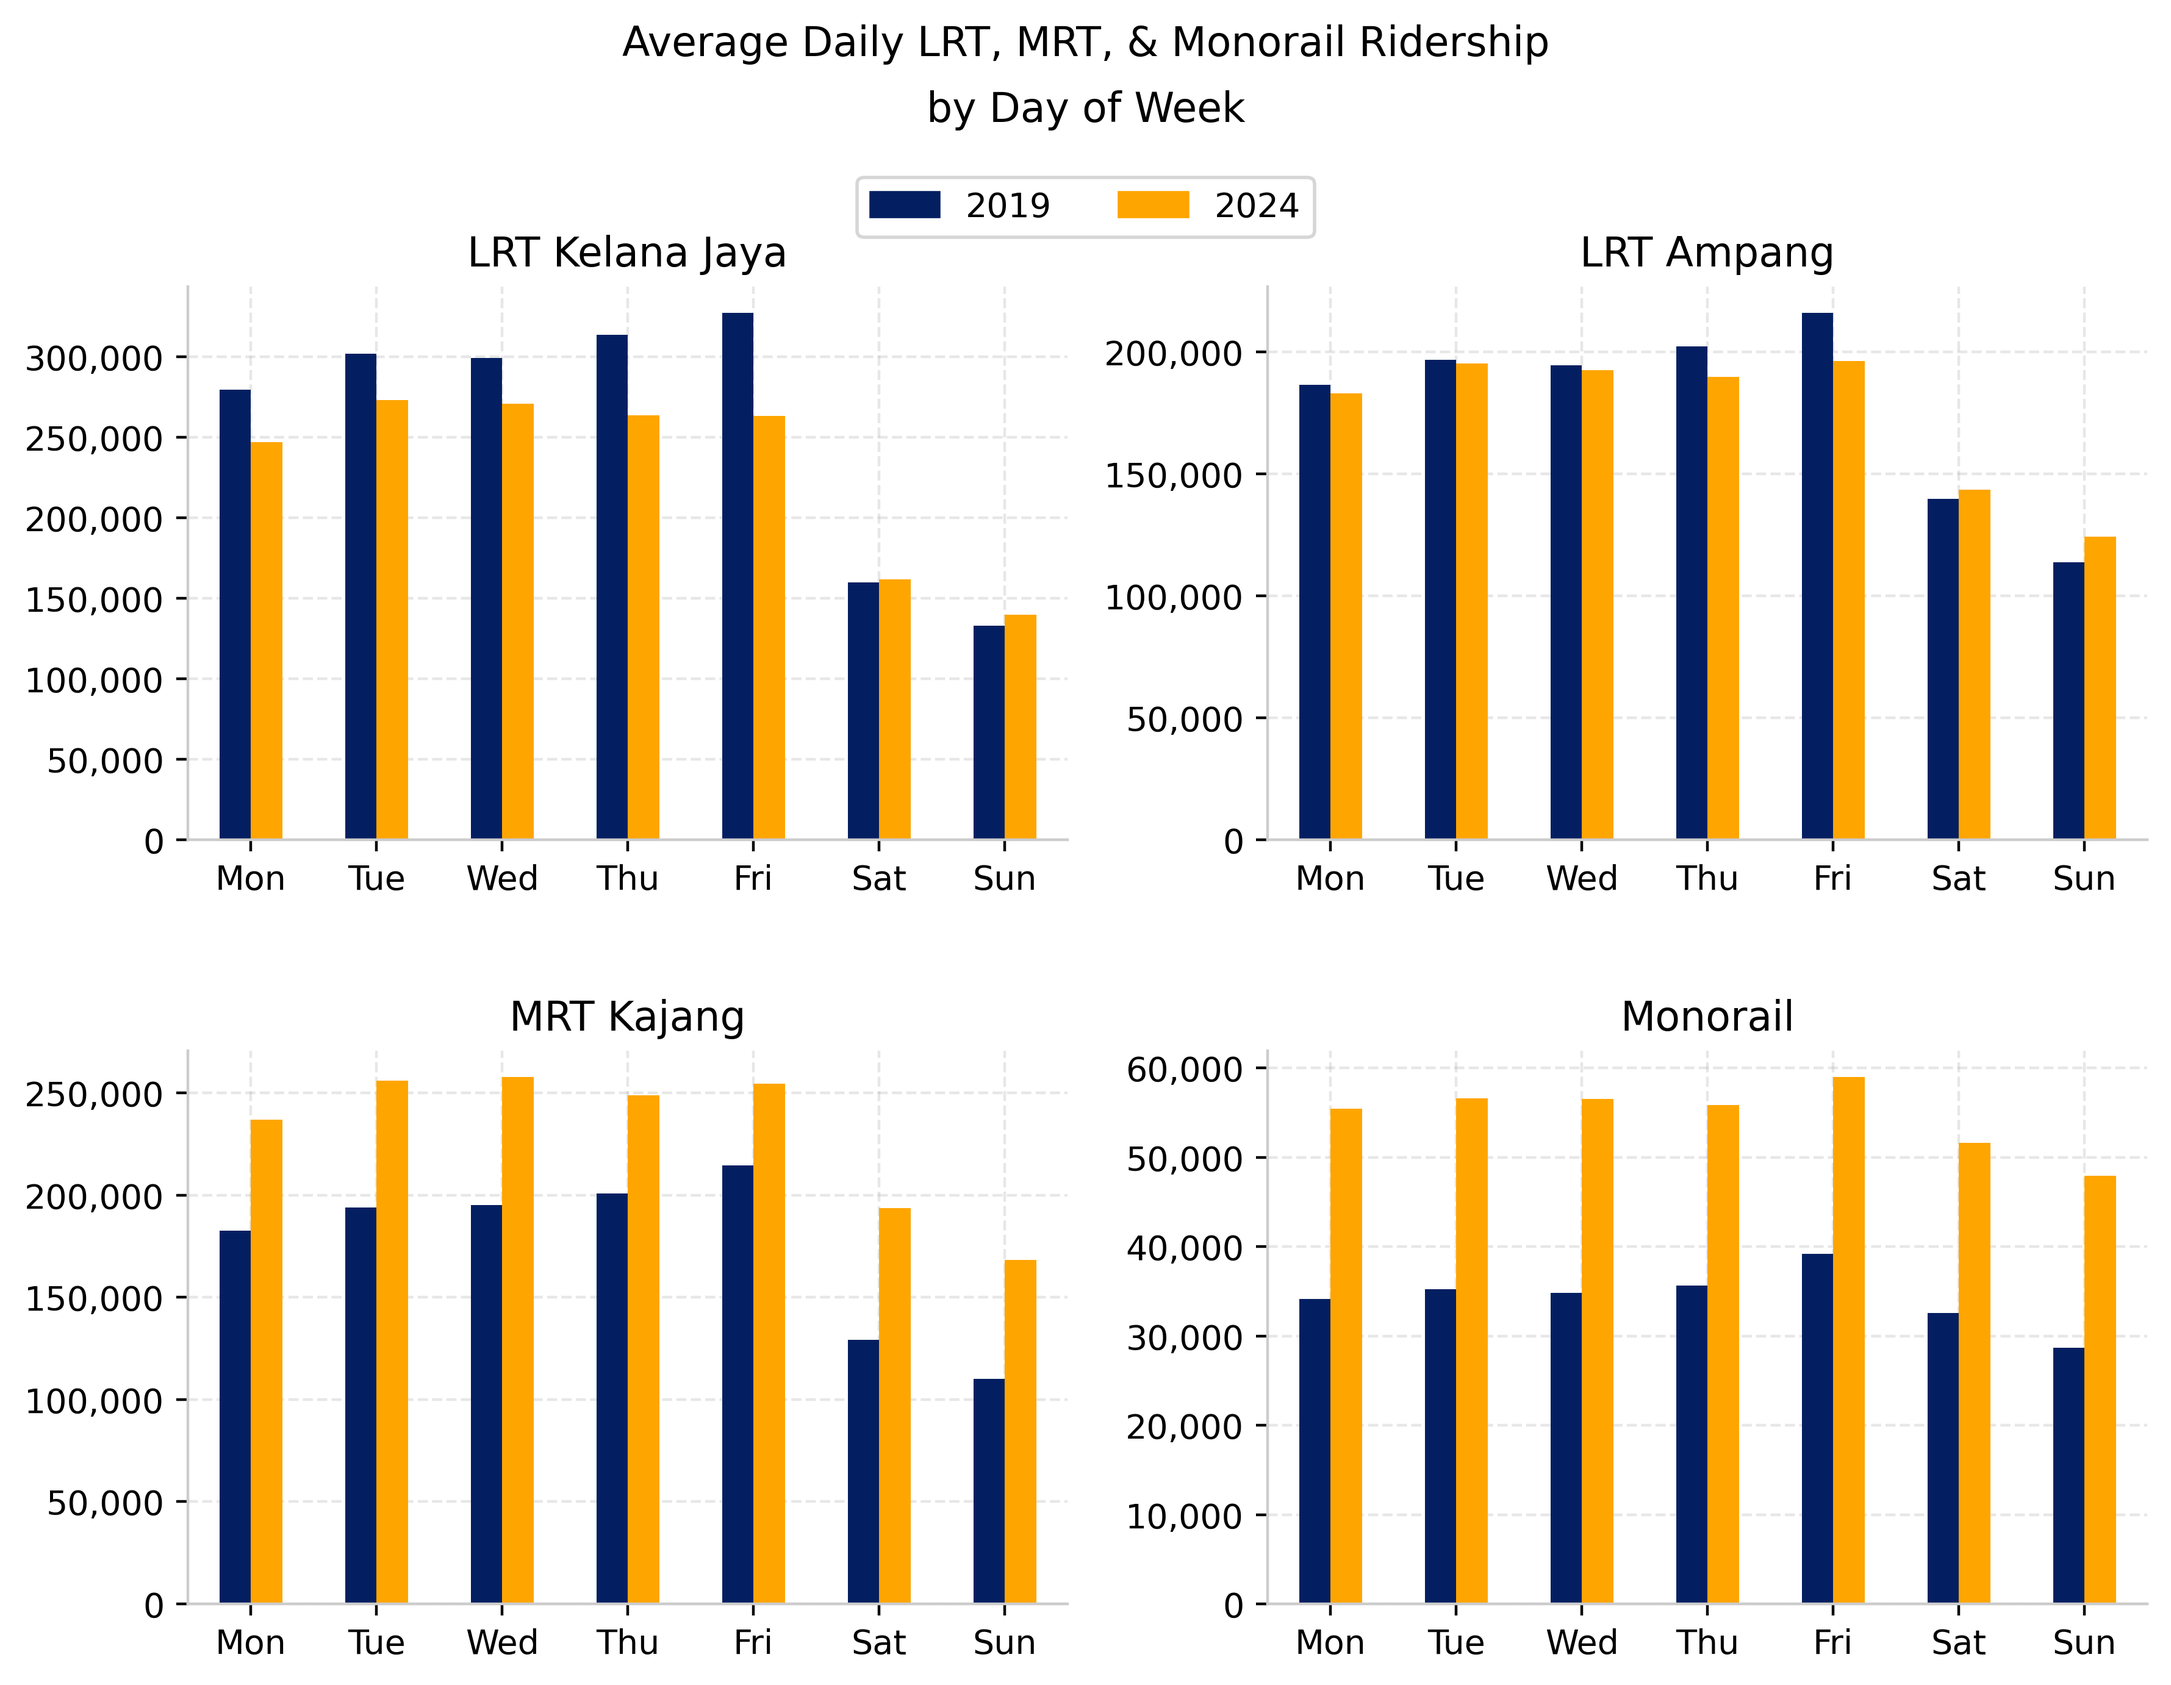
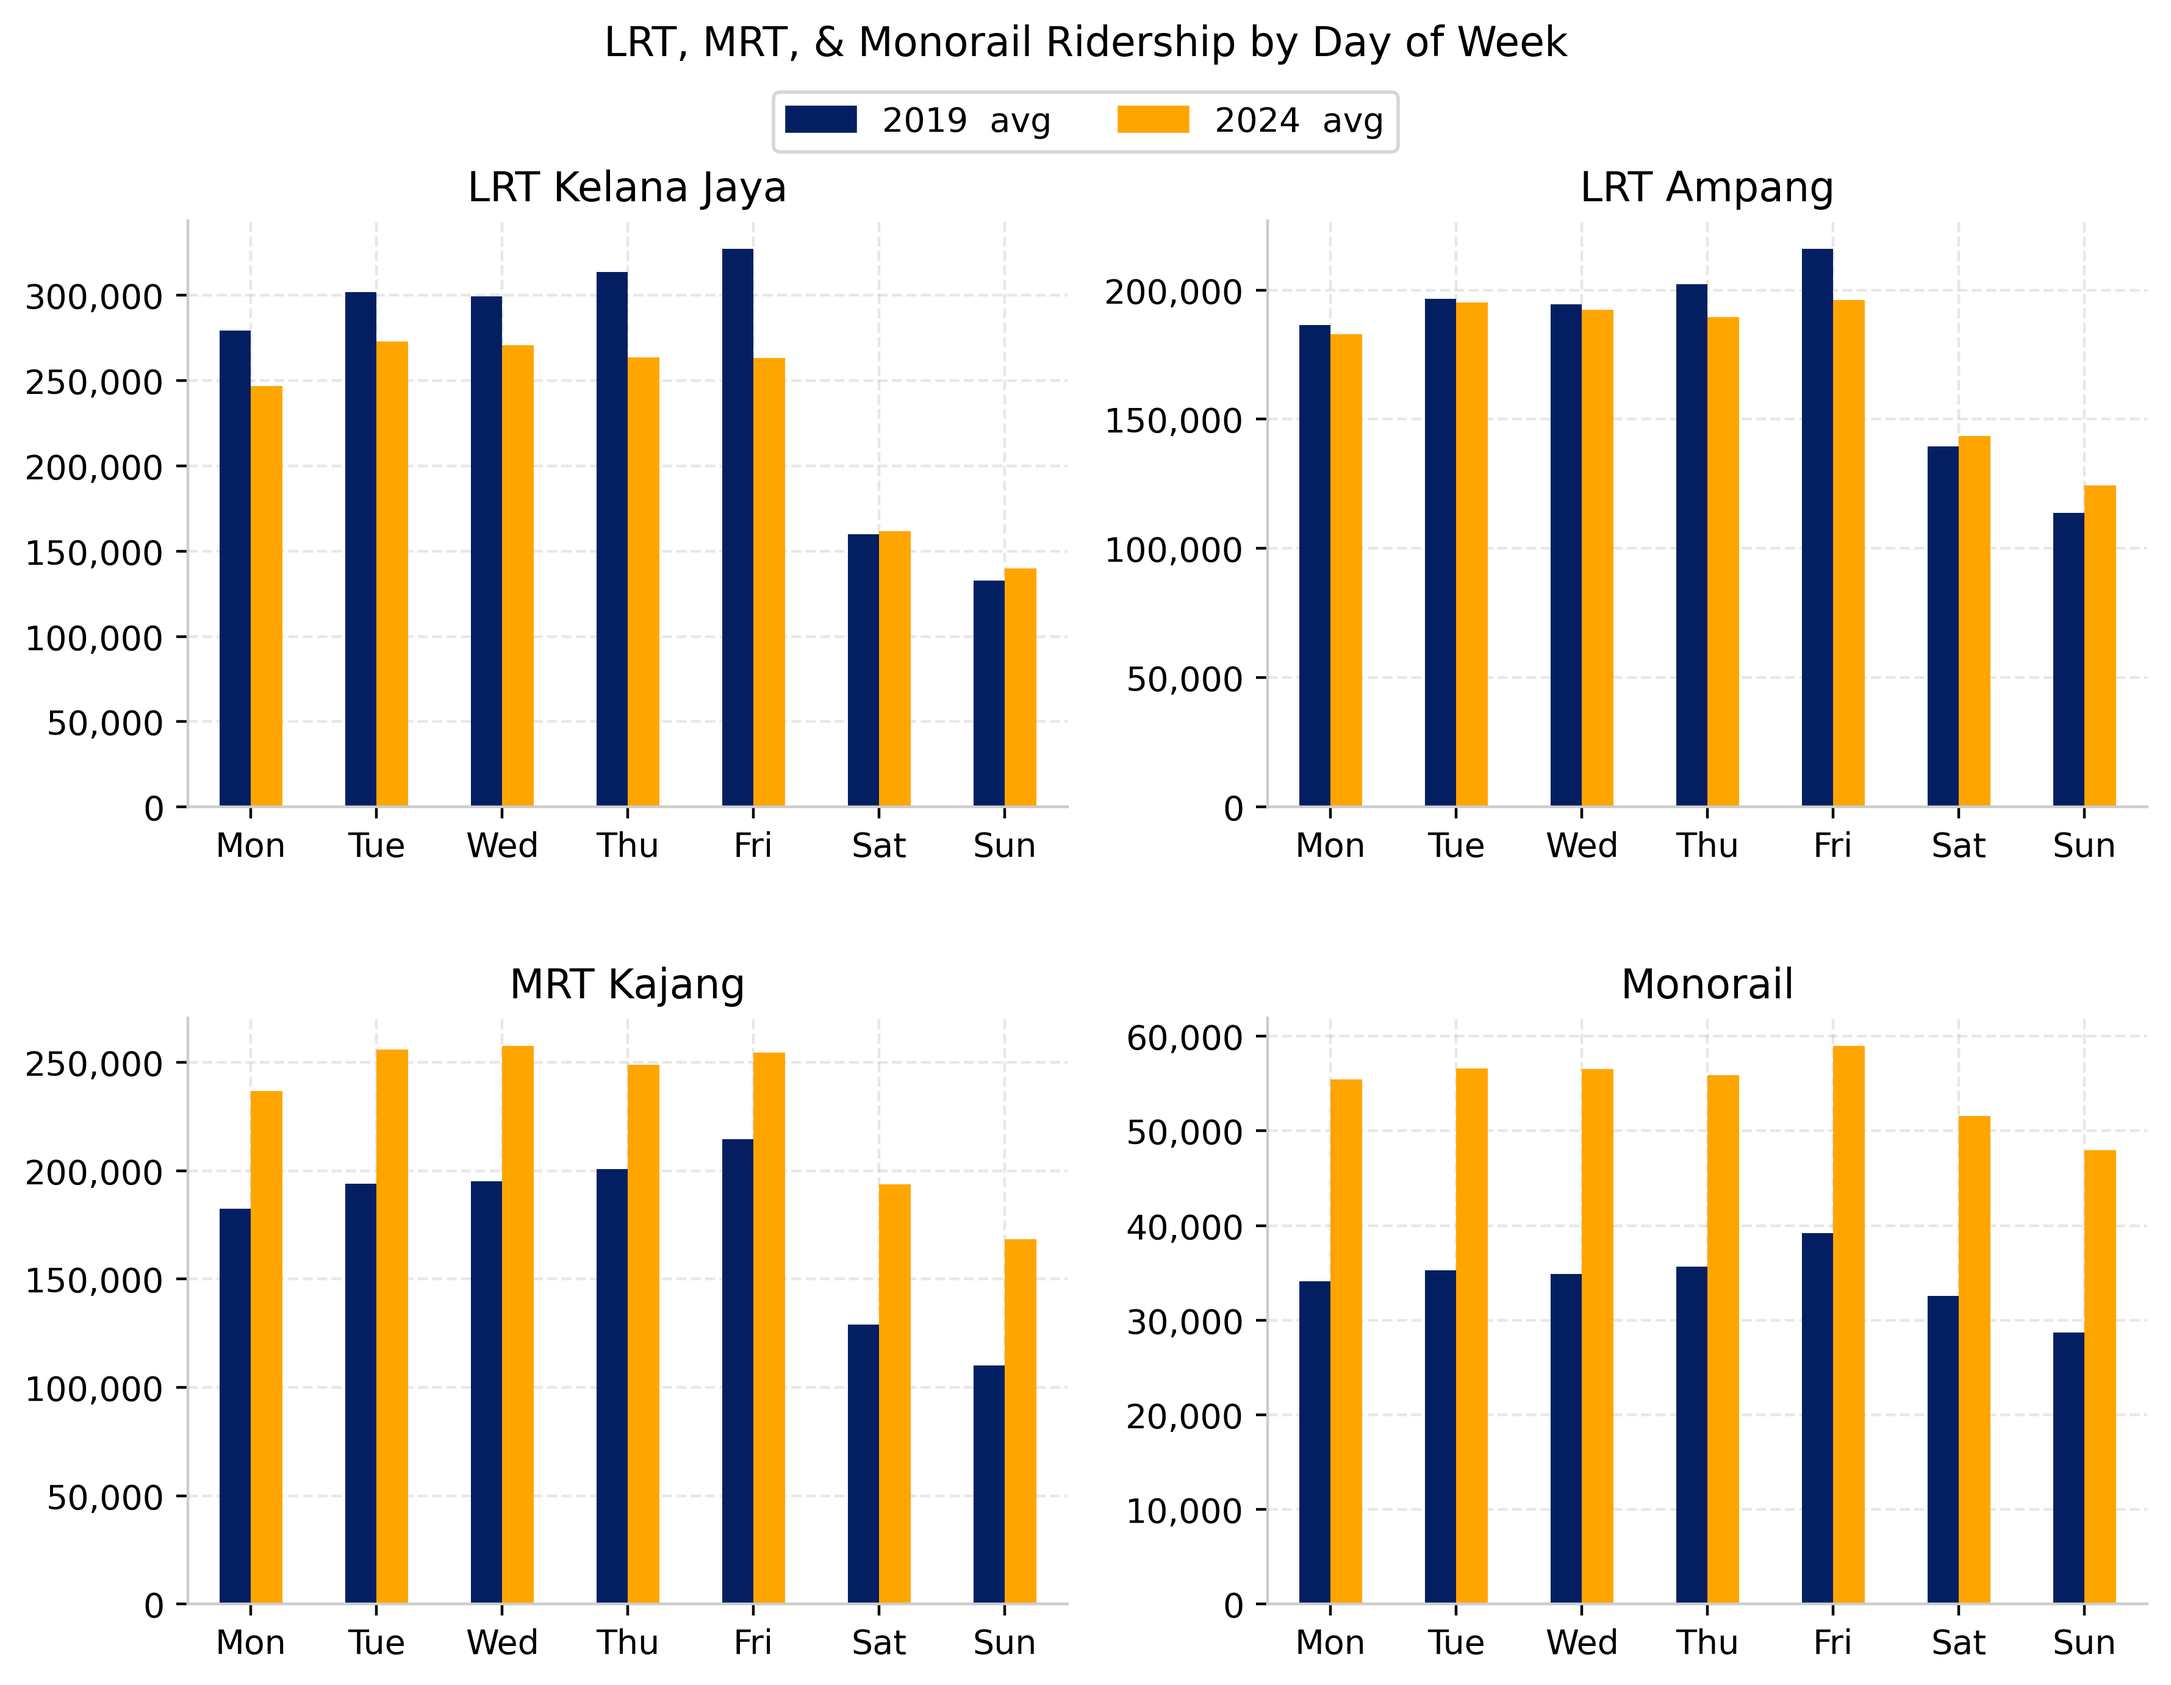
Tidy bar charts

diff --git a/2025-01-18_ridership/script.py b/2025-01-18_ridership/script.py
@@ -170,11 +170,11 @@ def bar_day_of_week(tf=None,TITLE=None,SAVE_AS=None,MILLIONS=False):
         ax[a].xaxis.grid(True,alpha=0.3)
         ax[a].tick_params(axis='x', rotation=0)
 
+    LEGEND_UNIT = '' if MILLIONS else ' avg'
     plt.suptitle(TITLE,linespacing=1.8)
-    bar_blue = plt.Rectangle((0,0), 1, 1, label='2019', color='#041f61')
-    bar_orange = plt.Rectangle((0,0), 1, 1, label='2024', color='orange')
-    LEGEND_VPOS = 0.95 if MILLIONS else 0.9
-    fig.legend(ncol=2, handles=[bar_blue, bar_orange], bbox_to_anchor=(0.5, LEGEND_VPOS), loc='upper center')
+    bar_blue = plt.Rectangle((0,0), 1, 1, label=f'2019 {LEGEND_UNIT}', color='#041f61')
+    bar_orange = plt.Rectangle((0,0), 1, 1, label=f'2024 {LEGEND_UNIT}', color='orange')
+    fig.legend(ncol=2, handles=[bar_blue, bar_orange], bbox_to_anchor=(0.5, 0.95), loc='upper center')
 
     plt.savefig(f'{SAVE_AS}.png',dpi=400,bbox_inches='tight')
     plt.close()
@@ -247,6 +247,7 @@ if __name__ == '__main__':
 
     print('\nProcessing bar chart data')
     dfmc = dfmm[dfmm.date.dt.year.isin([2019,2024])].drop('rail_mrt_pjy',axis=1)
+    dfmc = dfmc[~dfmc.date.astype(str).str.contains('02-29')].copy().fillna(0)
     dfmc['year'] = dfmc.date.dt.year.astype(str)
     dfmc = dfmc.melt(id_vars=['year','date'],value_vars=[x for x in lines if 'pjy' not in x],var_name='line',value_name='ridership')
     dfmc['date'] = dfmc.date.dt.strftime('%m')
@@ -266,7 +267,7 @@ if __name__ == '__main__':
     print('Chart: Ridership by day of week (2019 vs 2024)')
     bar_day_of_week(
         tf=dfwc,
-        TITLE='Average Daily LRT, MRT, & Monorail Ridership\nby Day of Week\n',
+        TITLE='LRT, MRT, & Monorail Ridership by Day of Week\n',
         SAVE_AS='bar_dow'
     )
 
